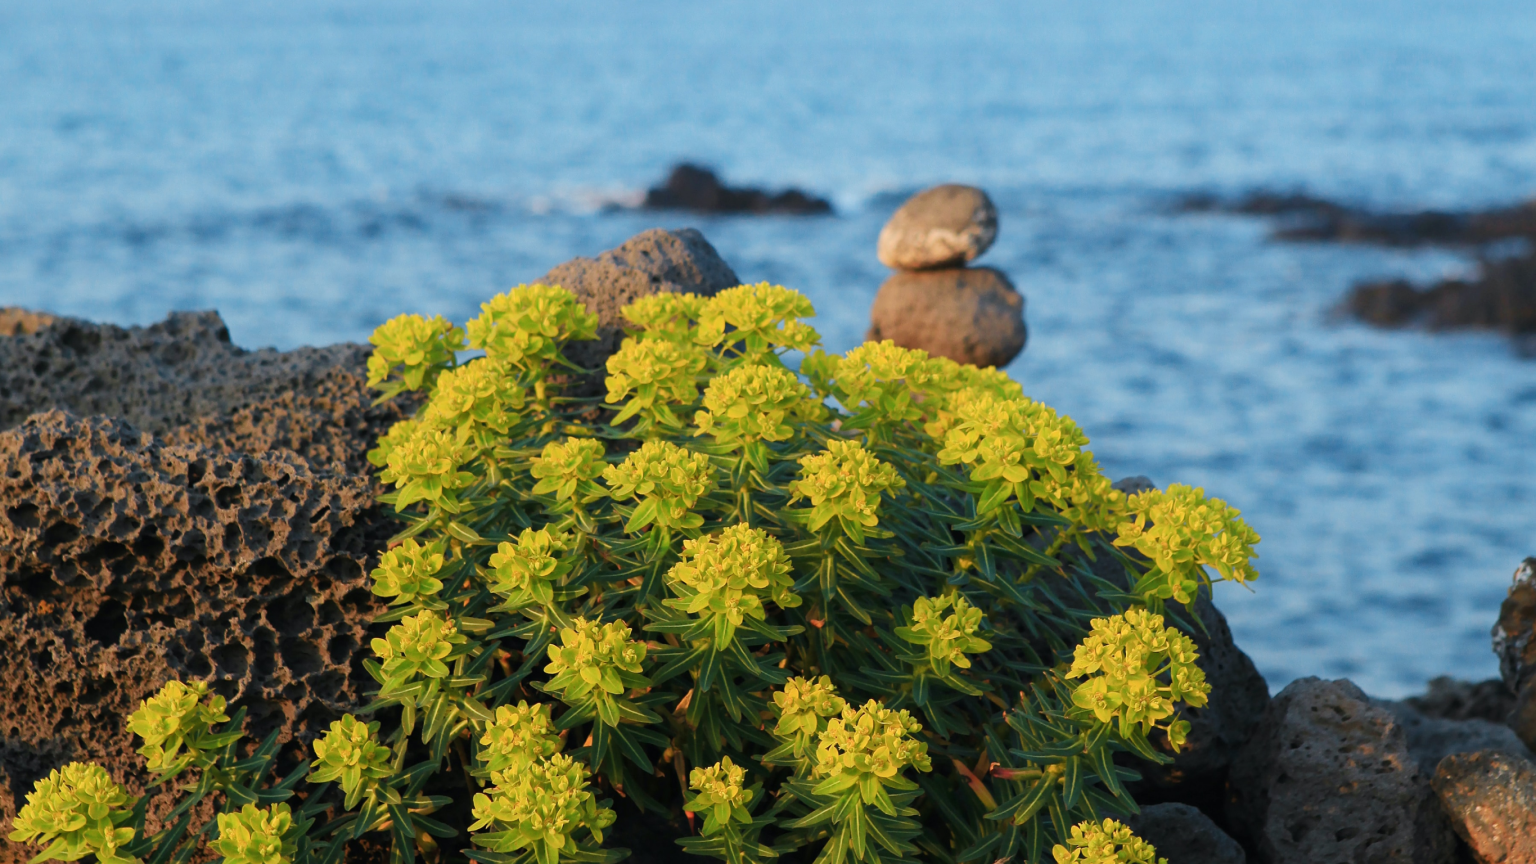
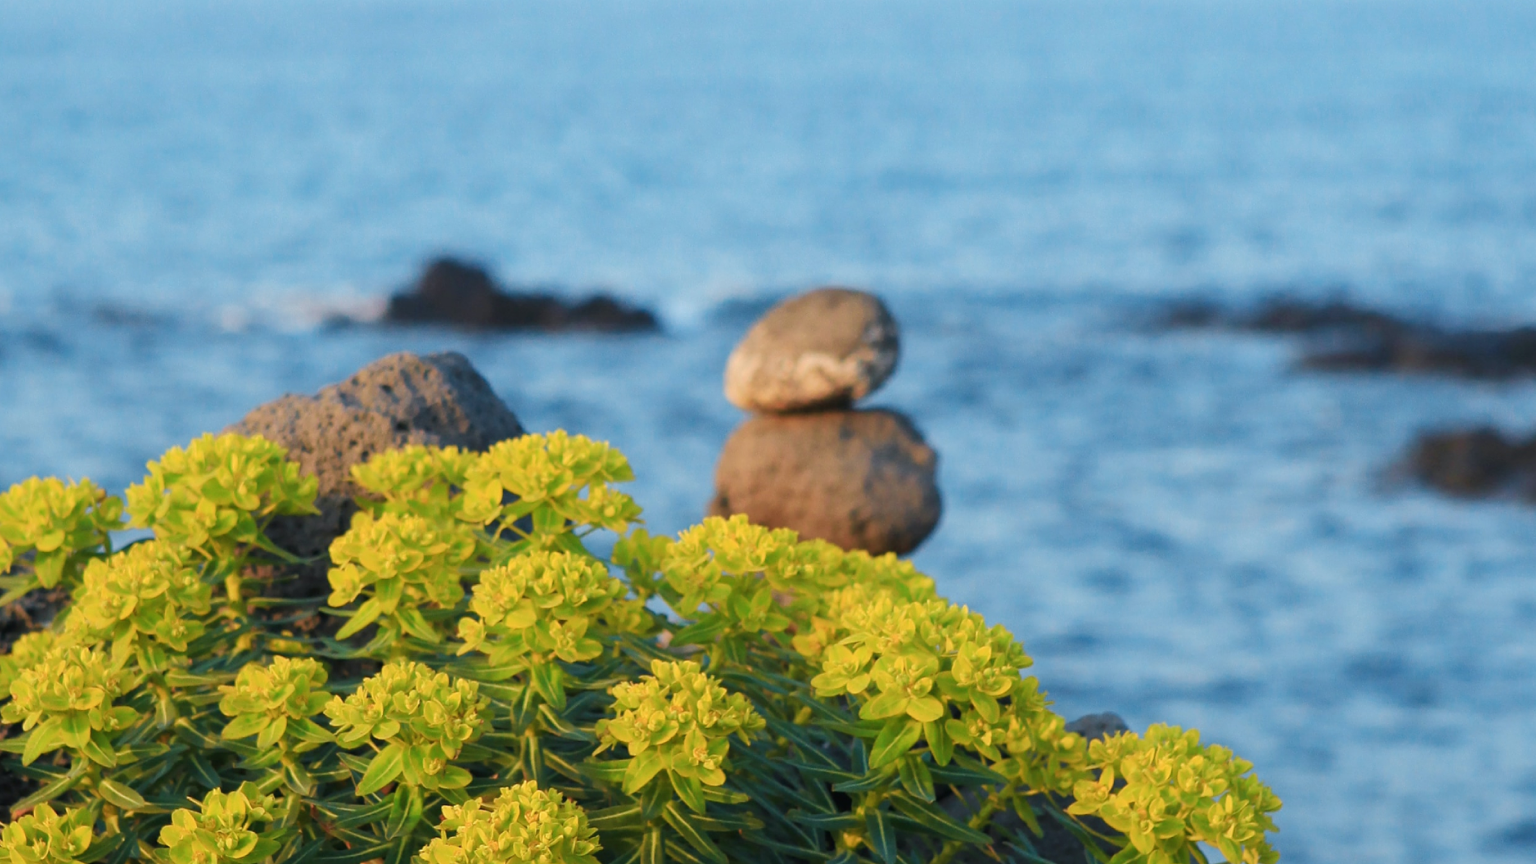
comento web project v0.19

diff --git a/static/css/product.css b/static/css/product.css
@@ -27,15 +27,23 @@ header .line img {
 }
 
 body {
-    margin-left: 0px;
     position: relative;
-    top: 0;
-    left: 0;
+    margin-left: 0px;
     width: 100%;
     height: 100%;
+    top: 0;
+    left: 0;
     background-image: url(../img/product_bg.png);
     background-size: cover;
     background-repeat: no-repeat;
+    z-index: 1;
+}
+body .proinfo_bg img {
+    position: absolution;
+    margin-top: 115px;
+    width: 100%;
+    height: 100%;
+    z-index: 2;
 }
 
 footer {

diff --git a/static/css/company.css b/static/css/company.css
@@ -36,12 +36,14 @@ body {
     background-image: url(../img/company_bg.png);
     background-size: cover;
     background-repeat: no-repeat;
+    z-index: 1;
 }
 body .cominfo_bg img {
     position: absolution;
     margin-top: 115px;
     width: 100%;
     height: 100%;
+    z-index: 2;
 }
 
 footer {

diff --git a/templates/pages/product.html b/templates/pages/product.html
@@ -37,7 +37,9 @@
 </header>
 
 <body>
-
+    <div class="proinfo_bg" align="center">
+        <img src="/static/img/product_main.png">
+    </div>
 </body>
 
 <footer>
